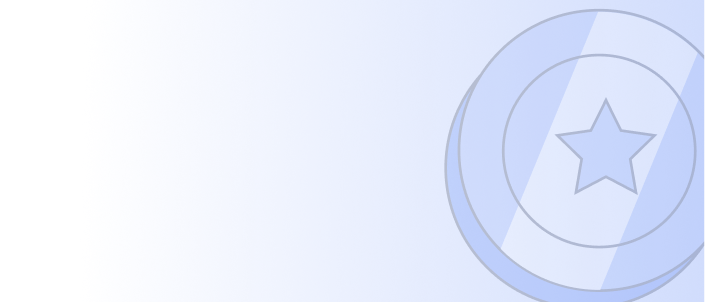
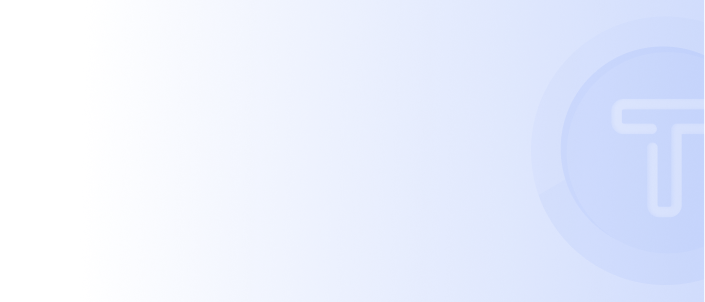
redirect

diff --git a/pages/mission/[...slug].jsx b/pages/mission/[...slug].jsx
@@ -165,60 +165,66 @@ function Index({ mission }) {
           </ToolTip>
         </h3>
 
-        <div className={styles.missionHead}>
-          <img
-            className={styles.profileImg}
-            src={mission.listing.dao_logo || "/blue.png"}
-            alt=""
-          />
-          <div className={styles.content}>
-            <h2 className={styles.sub}>{mission.listing.dao_name}</h2>
-            <h1 className={styles.title}>{limitText(40, mission.name)}</h1>
-            <p className={styles.desc}>{limitText(120, mission.description)}</p>
-            <div className={styles.bottomNav}>
-              <div className={styles.tags}>
-                {mission.tags.map((tgs, idx) => {
-                  return (
-                    <Tag
-                      key={"tgs" + idx}
-                      src={"/missions/bounty.png"}
-                      color={"rgb(203, 56, 240)"}
-                      title={tgs.name}
-                    />
-                  );
-                })}
-              </div>
-              <div className={styles.profilesCompleted}>
-                {completed &&
-                  completed.map((ele, idx) => {
-                    if (idx > 5) {
-                      return null;
-                    }
+        <div className={styles.bg}>
+          <div className={styles.missionHead}>
+            <img
+              className={styles.profileImg}
+              src={mission.listing.dao_logo || "/blue.png"}
+              alt=""
+            />
+            <div className={styles.content}>
+              <h2 className={styles.sub}>{mission.listing.dao_name}</h2>
+              <h1 className={styles.title}>{limitText(40, mission.name)}</h1>
+              <p className={styles.desc}>
+                {limitText(120, mission.description)}
+              </p>
+              <div className={styles.bottomNav}>
+                <div className={styles.tags}>
+                  {mission.tags.map((tgs, idx) => {
                     return (
-                      <img
-                        style={{ left: `${idx * -6}px` }}
-                        key={idx}
-                        src={ele.user.photo.secure_url}
-                        alt=""
+                      <Tag
+                        key={"tgs" + idx}
+                        src={"/missions/bounty.png"}
+                        color={"rgb(203, 56, 240)"}
+                        title={tgs.name}
                       />
                     );
                   })}
+                </div>
+                <div className={styles.profilesCompleted}>
+                  {completed &&
+                    completed.map((ele, idx) => {
+                      if (idx > 5) {
+                        return null;
+                      }
+                      return (
+                        <img
+                          style={{ left: `${idx * -6}px` }}
+                          key={idx}
+                          src={ele.user.photo.secure_url}
+                          alt=""
+                        />
+                      );
+                    })}
 
-                {completed && completed.length > 0 && (
-                  <p style={{ marginLeft: countBasedLength(completed.length) }}>
-                    + {completed.length} Completed
-                  </p>
-                )}
+                  {completed && completed.length > 0 && (
+                    <p
+                      style={{ marginLeft: countBasedLength(completed.length) }}
+                    >
+                      + {completed.length} Completed
+                    </p>
+                  )}
+                </div>
               </div>
             </div>
-          </div>
-          <span className={styles.xp}>
-            <p>Rewards</p>
-            <span className={styles.xpCount}>
-              <img src="/missions/coin.svg" alt="" />
-              <h1>{mission.listingXP} XP</h1>
+            <span className={styles.xp}>
+              <p>Rewards</p>
+              <span className={styles.xpCount}>
+                <img src="/missions/coin.svg" alt="" />
+                <h1>{mission.listingXP} XP</h1>
+              </span>
             </span>
-          </span>
+          </div>
         </div>
         {!status && (
           <>

diff --git a/pages/mission/page_mission.module.scss b/pages/mission/page_mission.module.scss
@@ -19,34 +19,52 @@ $mobile: 800px;
     // }
 }
 
-.missionHead {
+.bg {
     margin-top: 16px;
     display: flex;
     width: 1080px;
     height: 229px;
-    background-color: white;
+    background: url("/missions/imggrad.png");
+    background-repeat: no-repeat;
+    background-position: right;
     border-radius: 16px;
-    position: relative;
-    overflow: hidden;
-    background: rgb(255, 255, 255);
-    padding: 33px 48px;
-    background: linear-gradient(
-        90deg,
-        rgba(255, 255, 255, 1) 0%,
-        rgba(255, 255, 255, 1) 75%,
-        rgba(0, 81, 255, 0.274) 100%
-    );
+    background-color: white;
     &::after {
         content: "";
         display: flex;
         width: 100%;
         height: 100%;
         position: absolute;
-        background: url("/missions/imggrad.png");
-        background-repeat: no-repeat;
-        background-position: right;
-        opacity: 0.13;
+
+        // opacity: 0.13;
     }
+}
+
+.missionHead {
+    display: flex;
+    width: 1080px;
+    height: 229px;
+
+    position: relative;
+    overflow: hidden;
+    padding: 33px 48px;
+    // background: linear-gradient(
+    //     90deg,
+    //     rgba(255, 255, 255, 1) 0%,
+    //     rgba(255, 255, 255, 1) 75%,
+    //     rgba(0, 81, 255, 0.274) 100%
+    // );
+    // &::after {
+    //     content: "";
+    //     display: flex;
+    //     width: 100%;
+    //     height: 100%;
+    //     position: absolute;
+    //     background: url("/missions/imggrad.png");
+    //     background-repeat: no-repeat;
+    //     background-position: right;
+    //     // opacity: 0.13;
+    // }
 
     @media (max-width: $tablet) {
         width: 95%;

diff --git a/pages/community/[...slug].jsx b/pages/community/[...slug].jsx
@@ -809,17 +809,13 @@ export async function getServerSideProps(ctx) {
   //console.log(ctx.query);
   let { slug } = ctx.query;
   // Fetch data from external API
-  ctx.res.setHeader("Location", `/community/${slug}`);
-  ctx.res.statusCode = 302;
-  ctx.res.end();
-  return { props: {} };
-  // if (!slug) return null;
-  // let res = await fetchData(slug[0]);
-  // console.log(res);
-  // let rid = slug[1] || "";
-  // // Pass data to the page via props
+  if (!slug) return null;
+  let res = await fetchData(slug[0]);
+  console.log(res);
+  let rid = slug[1] || "";
+  // Pass data to the page via props
 
-  // return { props: { dao_data: { ...res }, rid: rid, slug: slug[0] } };
+  return { props: { dao_data: { ...res }, rid: rid, slug: slug[0] } };
 }
 
 const fetchData = async (slug) => {

diff --git a/components/DAOCard/card.module.scss b/components/DAOCard/card.module.scss
@@ -22,11 +22,16 @@ $TABLET_N: 768;
     border-radius: 16px;
     animation: appear 0.5s ease-in-out forwards;
 
-
     @media (max-width: $DESKTOP) and (min-width: $LAPTOP) {
         min-width: desktop_to_laptop_fluid(313);
         width: desktop_to_laptop_fluid(313);
         border-radius: desktop_to_laptop_fluid(16);
+    }
+
+    outline: 1.25px solid #3064f300;
+    &:hover {
+        transition: all 0.25s ease-in-out;
+        outline: 1.25px solid #3065f3;
     }
 }
 
@@ -157,7 +162,6 @@ $TABLET_N: 768;
         }
     }
 }
-
 
 @keyframes appear {
     0% {

diff --git a/next.config.js b/next.config.js
@@ -38,6 +38,7 @@ const nextConfig = {
         destination: 'https://tally.so/r/3j81En',
         permanent: true,
       },
+
     ]
   },
 }
